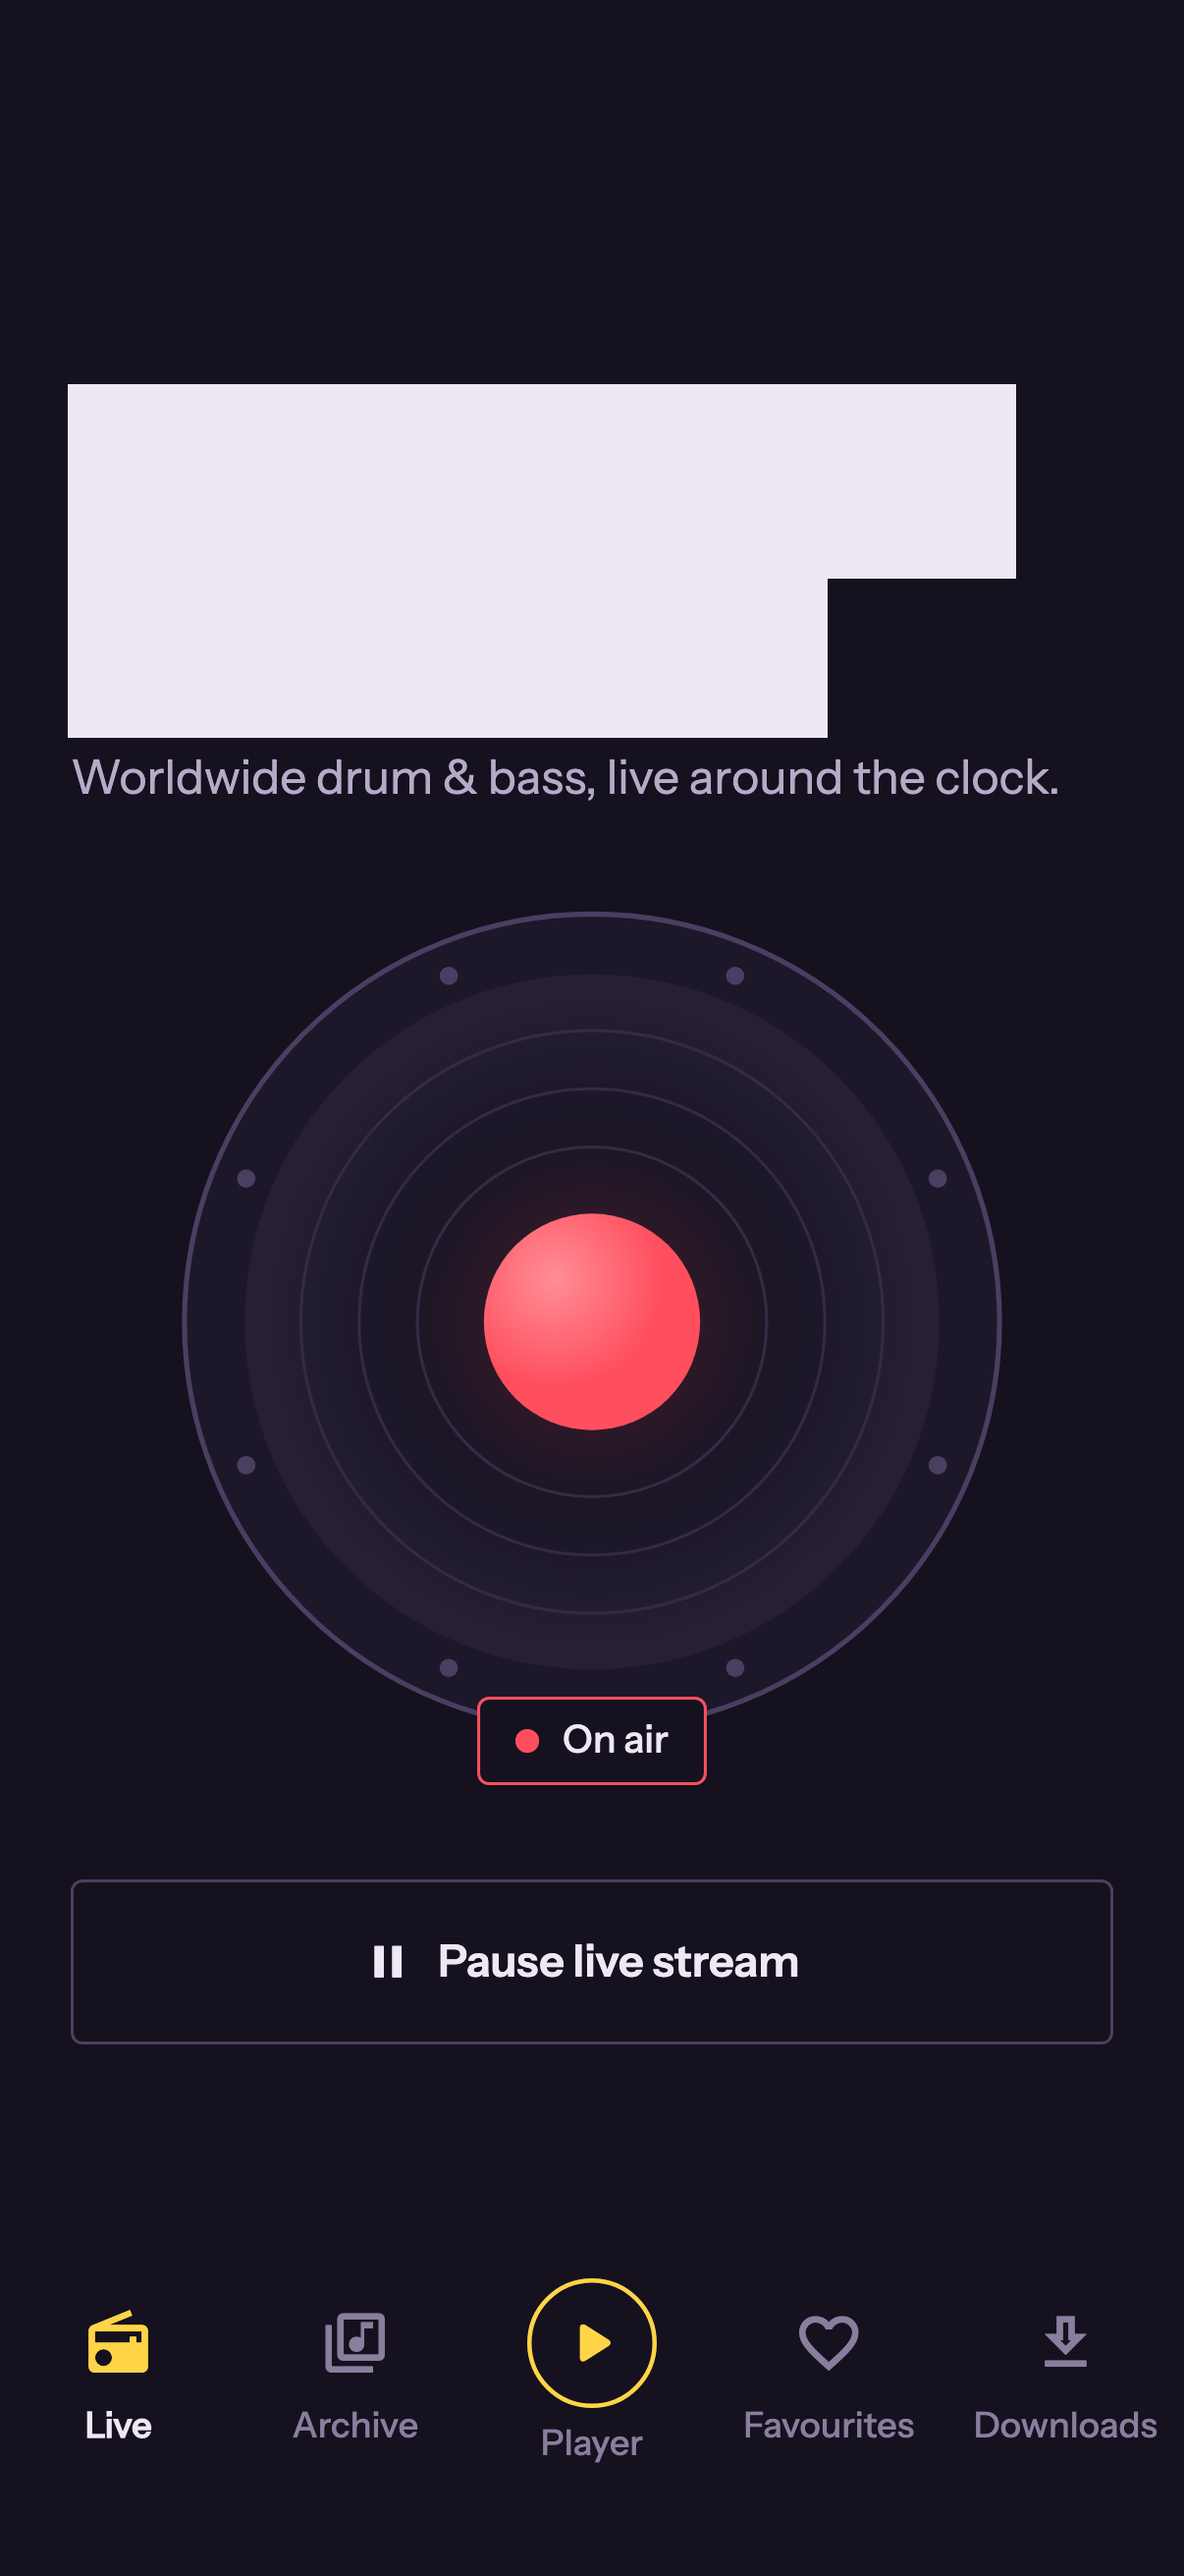
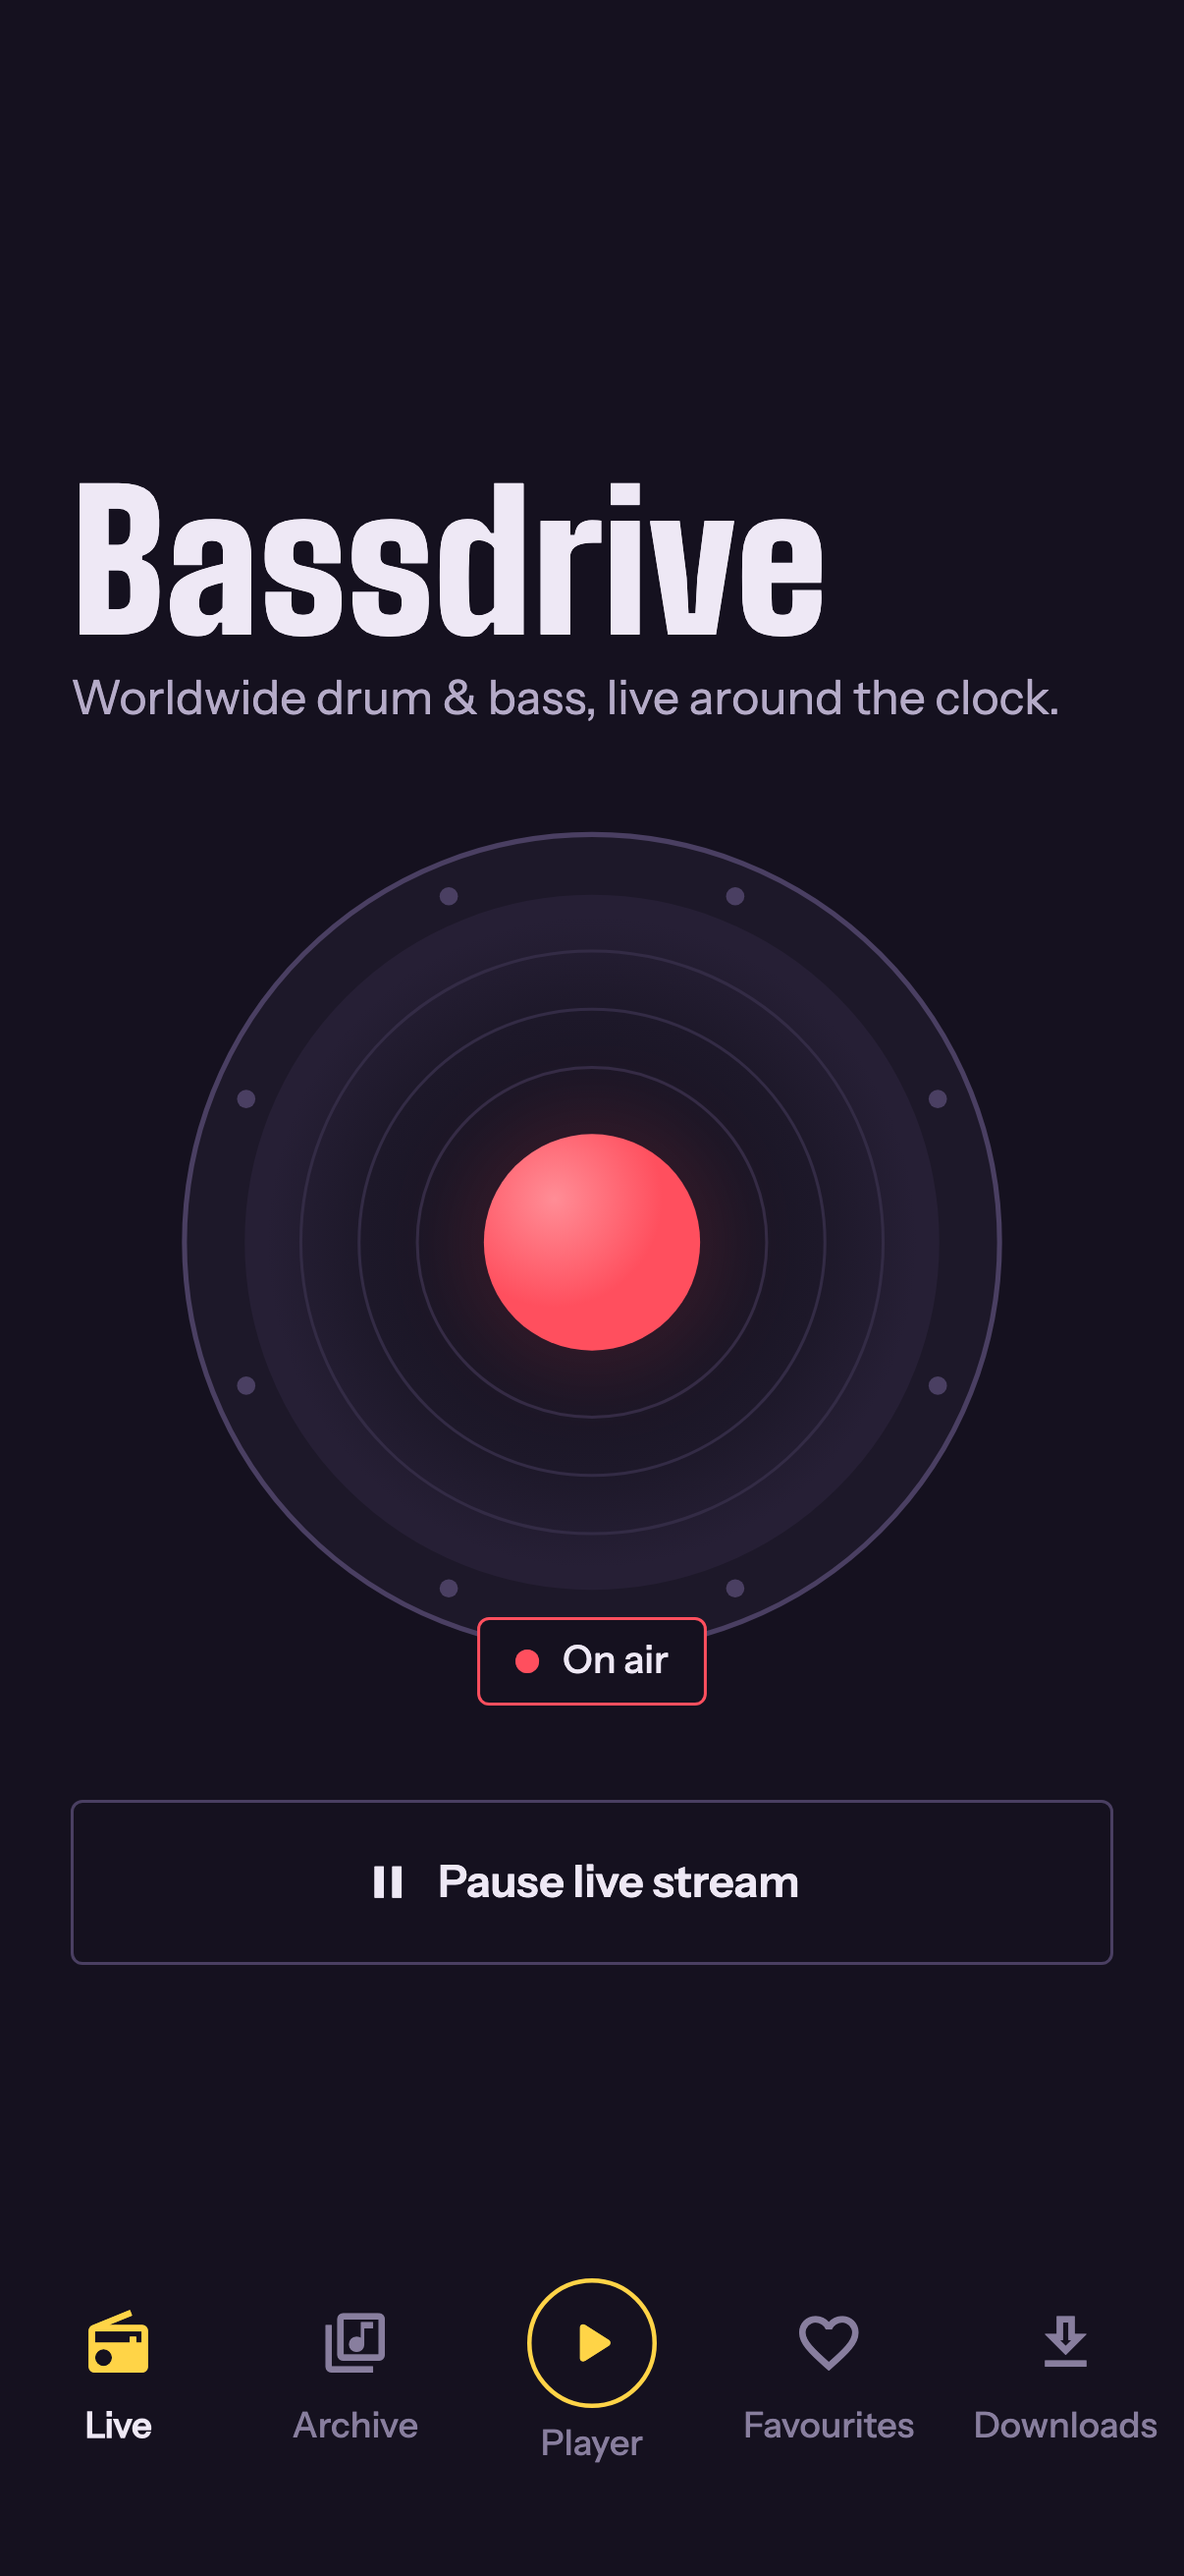
Fix blank headline in the live screen README screenshot
The live screen is the first screenshot captured, and its Big Shoulders
Black headline was laid out before the font finished loading, so it
rendered in the placeholder test font as solid boxes. Preload the bundled
fonts in setUpAll and regenerate IMAGE1.PNG.

diff --git a/test/readme_screenshots_test.dart b/test/readme_screenshots_test.dart
@@ -13,6 +13,7 @@ import 'package:bassdrive_radio/services/api_service.dart';
 import 'package:bassdrive_radio/services/audio_player_service.dart';
 import 'package:bassdrive_radio/services/storage_service.dart';
 import 'package:bassdrive_radio/utils/platform_utils.dart';
+import 'package:bassdrive_radio/ui/theme/app_theme_tokens.dart';
 import 'package:bassdrive_radio/utils/theme.dart';
 import 'package:flutter/material.dart';
 import 'package:flutter/services.dart';
@@ -115,6 +116,11 @@ void main() {
   setUpAll(() async {
     GoogleFonts.config.allowRuntimeFetching = false;
     await _loadIcons();
+    // Load every bundled font before the first frame. Text laid out before
+    // its font arrives keeps the placeholder test font (solid boxes).
+    AppTheme.darkTheme;
+    AppTypography.display(size: 64, weight: FontWeight.w900);
+    await GoogleFonts.pendingFonts();
   });
 
   setUp(() async {
